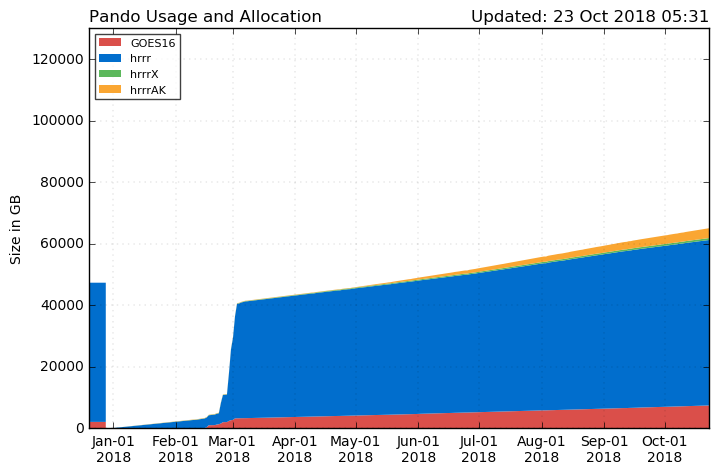
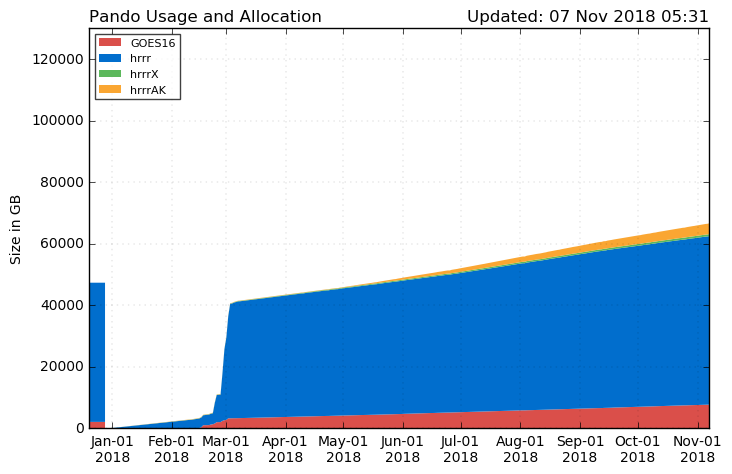
updates

diff --git a/hrrr_golf.html b/hrrr_golf.html
@@ -13,34 +13,37 @@
 <script src="./js/site/sitemenu.js"></script>	
 
 <h1 align="center"><i class="fa fa-map-marker-alt" aria-hidden="true"></i> HRRR Point Forecasts</h1>
-<script src='./js/HRRR_status.js'></script>
 
-<center>
-<div class="row" id="content">
-    <div class=" col-md-1">
-    </div>
-    <div class=" col-md-2">
-<a class='btn btn-danger active' role='button' href="http://home.chpc.utah.edu/~u0553130/Brian_Blaylock/hrrr_golf.html" style="width:100%"> <i class="fa fa-map-marker-alt" aria-hidden="true"></i> Point Forecast</a>      
-    </div>
-    <div class="col-md-2">
-<a class='btn btn-danger' role='button' href="http://home.chpc.utah.edu/~u0553130/Brian_Blaylock/hrrr_fires.html" style="width:100%"><i class="fa fa-fire-extinguisher" aria-hidden="true"></i> Fires Forecast</a>
-    </div>
-    <div class="col-md-2">
-<a class='btn btn-danger' role='button' href="http://home.chpc.utah.edu/~u0553130/Brian_Blaylock/hrrr_custom.html" style="width:100%"> <i class="far fa-map" aria-hidden="true"></i> Custom Maps</a>
-    </div>
-    <div class="col-md-2">
-<a class='btn btn-danger' role='button' href="http://home.chpc.utah.edu/~u0553130/Brian_Blaylock/cgi-bin/hrrrX-hrrr.cgi" style="width:100%"> <i class="fa fa-map" aria-hidden="true"></i> Compare Maps</a>
-    </div>
-    <div class="col-md-2">
-<a class='btn btn-danger' role='button' href="http://home.chpc.utah.edu/~u0553130/Brian_Blaylock/hrrr_FAQ.html" style="width:100%"> <i class="fa fa-database" aria-hidden="true"></i> HRRR Archive</a>
-    </div>
-</div>
-</center>
+
+
 <br>
 
 <center>
-<div id="container">
-    
+<div class="container">
+    <script src='./js/HRRR_status.js'></script>
+
+    <center>
+        <div class="row" id="content">
+            <div class=" col-md-1">
+            </div>
+            <div class=" col-md-2">
+        <a class='btn btn-danger active' role='button' href="http://home.chpc.utah.edu/~u0553130/Brian_Blaylock/hrrr_golf.html" style="width:100%"> <i class="fa fa-map-marker-alt" aria-hidden="true"></i> Point Forecast</a>      
+            </div>
+            <div class="col-md-2">
+        <a class='btn btn-danger' role='button' href="http://home.chpc.utah.edu/~u0553130/Brian_Blaylock/hrrr_fires.html" style="width:100%"><i class="fa fa-fire-extinguisher" aria-hidden="true"></i> Fires Forecast</a>
+            </div>
+            <div class="col-md-2">
+        <a class='btn btn-danger' role='button' href="http://home.chpc.utah.edu/~u0553130/Brian_Blaylock/hrrr_custom.html" style="width:100%"> <i class="far fa-map" aria-hidden="true"></i> Custom Maps</a>
+            </div>
+            <div class="col-md-2">
+        <a class='btn btn-danger' role='button' href="http://home.chpc.utah.edu/~u0553130/Brian_Blaylock/cgi-bin/hrrrX-hrrr.cgi" style="width:100%"> <i class="fa fa-map" aria-hidden="true"></i> Compare Maps</a>
+            </div>
+            <div class="col-md-2">
+        <a class='btn btn-danger' role='button' href="http://home.chpc.utah.edu/~u0553130/Brian_Blaylock/hrrr_FAQ.html" style="width:100%"> <i class="fa fa-database" aria-hidden="true"></i> HRRR Archive</a>
+            </div>
+        </div>
+        </center>
+
 <div class='row'>
 
   <div class='col-md-4 col-sm-offset-2'>
@@ -60,6 +63,7 @@
               'Flight Park South',
               'Fremont Island',
               'Gunnison Island',
+              'Hat Island',
               'Hill Air Force Base',
               'Neil Armstrong Academy',
               'North Logan',
@@ -74,6 +78,7 @@
             'FPS',
             'FREUT',
             'GNI',
+            'HATUT',
             'C8635',
             'NAA',
             'UCC23',
@@ -132,17 +137,20 @@
           <a href="http://home.chpc.utah.edu/~u0553130/Brian_Blaylock/cgi-bin/photo_viewer_golf.cgi?LOC=Orderville" class="btn btn-default btn-block">Orderville, UT</a>
 
       </div>
-  </div>
+      <br><br>
+      <p align=center>Powered By:<br>
+      <a href="https://mesowest.org/" target="_blank"><img class="style1" src="http://home.chpc.utah.edu/~u0553130/Brian_Blaylock/images/MesoWest/MesoWest_1997-2017_largeyears.png" style="background-color:#990000; height:50px"></a>
+      <a href="#" target="_blank"><img class="style1" src="http://home.chpc.utah.edu/~u0553130/Brian_Blaylock/images/PANDO_logo.png" style="width:150px"></a>
+      
+      <p> <a href="https://github.com/blaylockbk/oper/tree/master/HRRR_golf"><i class="fab fa-github" aria-hidden="true"></i> Forecasts Plots</a> | 
+        <a href="https://github.com/blaylockbk/oper/tree/master/HRRR_anlys"><i class="fab fa-github" aria-hidden="true"></i> Analysis Plots</a>
+      
+    </div>
+    
+
 </div>
 
-<br>
-<br><br>
-<p align=center>Powered By:<br>
-<a href="https://mesowest.org/" target="_blank"><img class="style1" src="http://home.chpc.utah.edu/~u0553130/Brian_Blaylock/images/MesoWest/MesoWest_1997-2017_largeyears.png" style="background-color:#990000; height:50px"></a>
-<a href="#" target="_blank"><img class="style1" src="http://home.chpc.utah.edu/~u0553130/Brian_Blaylock/images/PANDO_logo.png" style="width:150px"></a>
 
-<p>  Forecast code on <a href="https://github.com/blaylockbk/oper/tree/master/HRRR_golf">Github <i class="fab fa-github" aria-hidden="true"></i></a>
-<p>  Analysis code on <a href="https://github.com/blaylockbk/oper/tree/master/HRRR_anlys">Github <i class="fab fa-github" aria-hidden="true"></i></a>
 
 
 

diff --git a/hrrr_fires.html b/hrrr_fires.html
@@ -49,7 +49,7 @@ This page is created dynamically in the scirpt /oper/HRRR_fires/manager.py
 <tr><th>Name</th> <th>State</th> <th>Size (acres)</th> <th>Start Date</th></tr>
 <tr><td>
         <div class="btn-group" role="group" aria-label="..." style="padding-bottom:3px">
-        <a href="http://home.chpc.utah.edu/~u0553130/Brian_Blaylock/cgi-bin/photo_viewer_fire.cgi?FIRE=ALDER" class="btn btn-warning" style="width:175px"><b><i class="fab fa-gripfire"></i> ALDER</b></a>  <div class="btn-group" role="group">
+        <a href="http://home.chpc.utah.edu/~u0553130/Brian_Blaylock/cgi-bin/photo_viewer_fire.cgi?FIRE=ALDER,_MOUNTAINEER,_AND_MOSES_FIRES" class="btn btn-warning" style="width:175px"><b><i class="fab fa-gripfire"></i> ALDER, MOUNTAINEER, AND MOSES FIRES</b></a>  <div class="btn-group" role="group">
         <!--
         <a class="btn btn-warning dropdown-toggle" data-toggle="dropdown" aria-haspopup="true" aria-expanded="false">
         <i class="far fa-clock"></i>
@@ -57,12 +57,42 @@ This page is created dynamically in the scirpt /oper/HRRR_fires/manager.py
         </a>
         <ul class="dropdown-menu">
         <li>Other Data/Figures:</li>
-        <li><a href="http://home.chpc.utah.edu/~u0553130/PhD/HRRR_fires/ALDER">More Plots</a></li>
-        <li><a href="http://home.chpc.utah.edu/~u0553130/Brian_Blaylock/cgi-bin/hrrr_fires_alert.cgi?fire=ALDER">Past Wind Events</a></li>
+        <li><a href="http://home.chpc.utah.edu/~u0553130/PhD/HRRR_fires/ALDER,_MOUNTAINEER,_AND_MOSES_FIRES">More Plots</a></li>
+        <li><a href="http://home.chpc.utah.edu/~u0553130/Brian_Blaylock/cgi-bin/hrrr_fires_alert.cgi?fire=ALDER, MOUNTAINEER, AND MOSES FIRES">Past Wind Events</a></li>
         </ul>
         -->
         </div>
-        </div></td><td>California</td> <td>510.0</td><td>2018-10-04 00:00:00</td></tr>
+        </div></td><td>nan</td> <td>nan</td><td>nan</td></tr><tr><td>
+        <div class="btn-group" role="group" aria-label="..." style="padding-bottom:3px">
+        <a href="http://home.chpc.utah.edu/~u0553130/Brian_Blaylock/cgi-bin/photo_viewer_fire.cgi?FIRE=KLONDIKE" class="btn btn-warning" style="width:175px"><b><i class="fab fa-gripfire"></i> KLONDIKE</b></a>  <div class="btn-group" role="group">
+        <!--
+        <a class="btn btn-warning dropdown-toggle" data-toggle="dropdown" aria-haspopup="true" aria-expanded="false">
+        <i class="far fa-clock"></i>
+        <span class="caret"></span>
+        </a>
+        <ul class="dropdown-menu">
+        <li>Other Data/Figures:</li>
+        <li><a href="http://home.chpc.utah.edu/~u0553130/PhD/HRRR_fires/KLONDIKE">More Plots</a></li>
+        <li><a href="http://home.chpc.utah.edu/~u0553130/Brian_Blaylock/cgi-bin/hrrr_fires_alert.cgi?fire=KLONDIKE">Past Wind Events</a></li>
+        </ul>
+        -->
+        </div>
+        </div></td><td>nan</td> <td>nan</td><td>nan</td></tr><tr><td>
+        <div class="btn-group" role="group" aria-label="..." style="padding-bottom:3px">
+        <a href="http://home.chpc.utah.edu/~u0553130/Brian_Blaylock/cgi-bin/photo_viewer_fire.cgi?FIRE=RABBIT_FOOT" class="btn btn-warning" style="width:175px"><b><i class="fab fa-gripfire"></i> RABBIT FOOT</b></a>  <div class="btn-group" role="group">
+        <!--
+        <a class="btn btn-warning dropdown-toggle" data-toggle="dropdown" aria-haspopup="true" aria-expanded="false">
+        <i class="far fa-clock"></i>
+        <span class="caret"></span>
+        </a>
+        <ul class="dropdown-menu">
+        <li>Other Data/Figures:</li>
+        <li><a href="http://home.chpc.utah.edu/~u0553130/PhD/HRRR_fires/RABBIT_FOOT">More Plots</a></li>
+        <li><a href="http://home.chpc.utah.edu/~u0553130/Brian_Blaylock/cgi-bin/hrrr_fires_alert.cgi?fire=RABBIT FOOT">Past Wind Events</a></li>
+        </ul>
+        -->
+        </div>
+        </div></td><td>nan</td> <td>nan</td><td>nan</td></tr>
 </table>
 </div>
   <div class="col-md-6">
@@ -80,7 +110,7 @@ This page is created dynamically in the scirpt /oper/HRRR_fires/manager.py
     <p><a class='btn btn-default' style='width:100%' href="https://rmgsc.cr.usgs.gov/outgoing/GeoMAC/ActiveFirePerimeters.kml" target="_blank">Active Fire KMZ USGS <i class="fa fa-external-link-alt"></i></a>
     <p><a class='btn btn-default' style='width:100%' href="https://earthdata.nasa.gov/earth-observation-data/near-real-time/firms/active-fire-data" target="_blank">Active Fire KMZ EarthData <i class="fa fa-external-link-alt"></i></a>
     <p><a class='btn btn-success' style='width:100%' href="https://rmgsc.cr.usgs.gov/outgoing/GeoMAC/current_year_fire_data/current_year_all_states/" target="_blank">Active Fire Perimeter ShapeFile <i class="fa fa-external-link-alt"></i></a>
-    <p><a class='btn btn-success' style='width:100%' href="https://fsapps.nwcg.gov/afm/data/lg_fire/lg_fire_info_2018-10-23.txt" target="_blank">Active Fire Text <i class="fa fa-external-link-alt"></i></a>
+    <p><a class='btn btn-success' style='width:100%' href="https://fsapps.nwcg.gov/afm/data/lg_fire/lg_fire_info_2018-11-05.txt" target="_blank">Active Fire Text <i class="fa fa-external-link-alt"></i></a>
     </div>
 </center>
 </div>

diff --git a/hrrr_FAQ.html b/hrrr_FAQ.html
@@ -534,18 +534,17 @@
                 important person you know at NCEP and request they develop an
                 official HRRR archive. Thank you <i class="far fa-smile"></i>
             </div>
-            </div>
+            
 
             <div class='well'>
                 <h3>Known published works that used this archive:</h3>
+                <p style='text-indent:-20px'>Blaylock, B.K., J.D. Horel, and E.T. Crosman, 2017: Impact of Lake Breezes on Summer Ozone Concentrations in the Salt Lake Valley. <i>J. Appl. Meteor. Climatol.</i>, 56, 353-370, <a href='https://doi.org/10.1175/JAMC-D-16-0216.1'>https://doi.org/10.1175/JAMC-D-16-0216.1</a>
                 <p style='text-indent:-20px'>Blaylock, B.K., J.D. Horel, and C. Galli, 2018: High-Resolution Rapid Refresh Model Data Analytics Derived on the Open Science Grid to Assist Wildland Fire Weather Assessment. <i>J. Atmos. Oceanic Technol.</i>, 0, <a href='https://doi.org/10.1175/JTECH-D-18-0073.1'>https://doi.org/10.1175/JTECH-D-18-0073.1</a>.
                 <p style='text-indent:-20px'>McCorkle, T.A., J.D. Horel, A.A. Jacques, and T. Alcott, 2018: Evaluating the Experimental High-Resolution Rapid Refresh-Alaska Modeling System Using USArray Pressure Observations. <i>Wea. Forecasting</i>, 33, 933-953, <a href='https://doi.org/10.1175/WAF-D-17-0155.1'>https://doi.org/10.1175/WAF-D-17-0155.1</a>.
                 <p style="text-indent:-20px">McNicholas, C. and C.F. Mass, 2018: Impacts of Assimilating Smartphone Pressure Observations on Forecast Skill during Two Case Studies in the Pacific Northwest. <i>Wea. Forecasting</i>, 33, 1375-1396,  <a href='https://doi.org/10.1175/WAF-D-18-0085.1'>https://doi.org/10.1175/WAF-D-18-0085.1</a>.  
                 <p style="text-indent:-20px">Poolla, C., and A. K. Ishihara, 2018: Localized solar power prediction based on weather data from local history and global forecasts. <i>45th IEEE Photovoltaic Specialists Conference</i>. <a href='https://arxiv.org/abs/1808.08657'>Link</a>.
-                <p style="text-indent:-20px">Rosenow, A.A., K. Howard, and J. Meitin, 2018: Gap-Filling Mobile Radar Observations of a Snow Squall in the San Luis Valley. <i>Mon. Wea. Rev.</i>, 146, 2469-2481, <a href='https://doi.org/10.1175/MWR-D-17-0323.1'>https://doi.org/10.1175/MWR-D-17-0323.1</a>.
-                
-                  
-               
+                <p style="text-indent:-20px">Rosenow, A.A., K. Howard, and J. Meitin, 2018: Gap-Filling Mobile Radar Observations of a Snow Squall in the San Luis Valley. <i>Mon. Wea. Rev.</i>, 146, 2469-2481, <a href='https://doi.org/10.1175/MWR-D-17-0323.1'>https://doi.org/10.1175/MWR-D-17-0323.1</a>.    
+            </div> 
             </div>
 
             <div id="tab6" class="tab-pane fade">
@@ -725,7 +724,7 @@
             </a></center>
             <hr>
             <h3>How full is our Pando allocation?</h3>
-            <p> View the amount of space used on our Pando allocation <a href="http://home.chpc.utah.edu/~u0553130/Brian_Blaylock/Pando_archive/">here</a>.</p>
+            <p> View the amount of space used on our Pando. <a class='btn btn-primary' href="http://home.chpc.utah.edu/~u0553130/Brian_Blaylock/Pando_archive/">Pando Allocation</a></p>
 
             <hr>
             <h3>Is the archive on the local file system?</h3>

diff --git a/index.html b/index.html
@@ -534,18 +534,17 @@
                 important person you know at NCEP and request they develop an
                 official HRRR archive. Thank you <i class="far fa-smile"></i>
             </div>
-            </div>
+            
 
             <div class='well'>
                 <h3>Known published works that used this archive:</h3>
+                <p style='text-indent:-20px'>Blaylock, B.K., J.D. Horel, and E.T. Crosman, 2017: Impact of Lake Breezes on Summer Ozone Concentrations in the Salt Lake Valley. <i>J. Appl. Meteor. Climatol.</i>, 56, 353-370, <a href='https://doi.org/10.1175/JAMC-D-16-0216.1'>https://doi.org/10.1175/JAMC-D-16-0216.1</a>
                 <p style='text-indent:-20px'>Blaylock, B.K., J.D. Horel, and C. Galli, 2018: High-Resolution Rapid Refresh Model Data Analytics Derived on the Open Science Grid to Assist Wildland Fire Weather Assessment. <i>J. Atmos. Oceanic Technol.</i>, 0, <a href='https://doi.org/10.1175/JTECH-D-18-0073.1'>https://doi.org/10.1175/JTECH-D-18-0073.1</a>.
                 <p style='text-indent:-20px'>McCorkle, T.A., J.D. Horel, A.A. Jacques, and T. Alcott, 2018: Evaluating the Experimental High-Resolution Rapid Refresh-Alaska Modeling System Using USArray Pressure Observations. <i>Wea. Forecasting</i>, 33, 933-953, <a href='https://doi.org/10.1175/WAF-D-17-0155.1'>https://doi.org/10.1175/WAF-D-17-0155.1</a>.
                 <p style="text-indent:-20px">McNicholas, C. and C.F. Mass, 2018: Impacts of Assimilating Smartphone Pressure Observations on Forecast Skill during Two Case Studies in the Pacific Northwest. <i>Wea. Forecasting</i>, 33, 1375-1396,  <a href='https://doi.org/10.1175/WAF-D-18-0085.1'>https://doi.org/10.1175/WAF-D-18-0085.1</a>.  
                 <p style="text-indent:-20px">Poolla, C., and A. K. Ishihara, 2018: Localized solar power prediction based on weather data from local history and global forecasts. <i>45th IEEE Photovoltaic Specialists Conference</i>. <a href='https://arxiv.org/abs/1808.08657'>Link</a>.
-                <p style="text-indent:-20px">Rosenow, A.A., K. Howard, and J. Meitin, 2018: Gap-Filling Mobile Radar Observations of a Snow Squall in the San Luis Valley. <i>Mon. Wea. Rev.</i>, 146, 2469-2481, <a href='https://doi.org/10.1175/MWR-D-17-0323.1'>https://doi.org/10.1175/MWR-D-17-0323.1</a>.
-                
-                  
-               
+                <p style="text-indent:-20px">Rosenow, A.A., K. Howard, and J. Meitin, 2018: Gap-Filling Mobile Radar Observations of a Snow Squall in the San Luis Valley. <i>Mon. Wea. Rev.</i>, 146, 2469-2481, <a href='https://doi.org/10.1175/MWR-D-17-0323.1'>https://doi.org/10.1175/MWR-D-17-0323.1</a>.    
+            </div> 
             </div>
 
             <div id="tab6" class="tab-pane fade">
@@ -725,7 +724,7 @@
             </a></center>
             <hr>
             <h3>How full is our Pando allocation?</h3>
-            <p> View the amount of space used on our Pando allocation <a href="http://home.chpc.utah.edu/~u0553130/Brian_Blaylock/Pando_archive/">here</a>.</p>
+            <p> View the amount of space used on our Pando. <a class='btn btn-primary' href="http://home.chpc.utah.edu/~u0553130/Brian_Blaylock/Pando_archive/">Pando Allocation</a></p>
 
             <hr>
             <h3>Is the archive on the local file system?</h3>

diff --git a/Pando_archive/index.html b/Pando_archive/index.html
@@ -37,18 +37,18 @@
         </div>
   <br>
   <script src='./js/pando_status.js'></script>
-    <center><font size=12> 65.2 TB out of 130 TB</font>
+    <center><font size=12> 66.8 TB out of 130 TB</font>
     <div class="progress" style="max-width:700px;height:35px">
             <div class="progress-bar progress-bar-danger" role="progressbar" style="width:6%">
               <font size=4></font>
             </div>
-            <div class="progress-bar progress-bar-primary" role="progressbar" style="width:41%">
+            <div class="progress-bar progress-bar-primary" role="progressbar" style="width:42%">
               <font size=4></font>
             </div>
-            <div class="progress-bar progress-bar-success" role="progressbar" style="width:0%">
+            <div class="progress-bar progress-bar-success" role="progressbar" style="width:1%">
               <font size=4></font>
             </div>
-            <div class="progress-bar progress-bar-warning" role="progressbar" style="width:2%">
+            <div class="progress-bar progress-bar-warning" role="progressbar" style="width:3%">
               <font size=4></font>
             </div>
           </div>
@@ -64,9 +64,9 @@
         <th style='text-align:center'>Estimated Full Date</th>
       </tr>
       <tr>
-        <td>92.67 GB</td>
-        <td>699</td>
-        <td>21 September 2020</td>
+        <td>140.37 GB</td>
+        <td>450</td>
+        <td>31 January 2020</td>
       </tr>
     </table>
     <table class="table table-bordered" style='text-align:center;max-width:700px'>
@@ -80,14 +80,14 @@
       <tr>
         <th>sfc</th>
         <td>--</td>
-        <td>23.95</td>
-        <td>0.71</td>
-        <td>8.19</td>
+        <td>23.62</td>
+        <td>0.84</td>
+        <td>9.48</td>
       </tr>
       <tr>
         <th>prs</th>
         <td>--</td>
-        <td>3.12</td>
+        <td>3.52</td>
         <td>0.00</td>
         <td>0.00</td>
       </tr>
@@ -100,10 +100,10 @@
       </tr>
       <tr>
         <th>Total</th>
-        <th>5.2 GB</th>
-        <th>27.07 GB</th>
-        <th>0.71 GB</th>
-        <th>8.19 GB</th>
+        <th>16.4 GB</th>
+        <th>27.14 GB</th>
+        <th>0.84 GB</th>
+        <th>9.48 GB</th>
       </tr>
     </table>
 

diff --git a/PhD.html b/PhD.html
@@ -59,7 +59,7 @@
 						<h4 style="text-align: center">Cloud archiving and data mining of High-Resolution Rapid Refresh forecast model output</h4>
 					</div>
 					<div class="panel-footer">
-						<a href="https://doi.org/10.1016/j.cageo.2017.08.005">Link</a>
+						<a href="https://doi.org/10.1016/j.cageo.2017.08.005"><i class="fas fa-external-link-alt"></i> Link</a>
 					</div>
 					</div>
 				</div>
@@ -70,7 +70,7 @@
 						<h4 style="text-align: center">High-Resolution Rapid Refresh Model Data Analytics Derived on the Open Science Grid to Assist Wildland Fire Weather Assessment</h4>
 					</div>
 					<div class="panel-footer">
-						In review
+						<a href="https://journals.ametsoc.org/doi/abs/10.1175/JTECH-D-18-0073.1"><i class="fas fa-external-link-alt"></i> Link</a>
 					</div>
 					</div>
 				</div>
@@ -180,8 +180,18 @@
         </div>
 
     </div>
-</div>
 
+<br>
+<hr>
+<h3>NOAA Big Data Request for Information</h3>
+<p>Since I use GOES-16 data acquired from Amazon AWS S3 buckets,
+   I responded to the <a href="https://www.noaa.gov/big-data-project">NOAA Big Data Project</a>
+   Request for Information.
+	<br><a class='btn btn-primary' href='https://1drv.ms/b/s!AtJL0JL_rT9jtfxoIWfdPm9Ze0qt9g'>
+		<i class="fas fa-external-link-alt"></i> Response Document
+	</a>
+
+</div>
 
 <script src="./js/site/siteclose.js"></script>
 </body>
